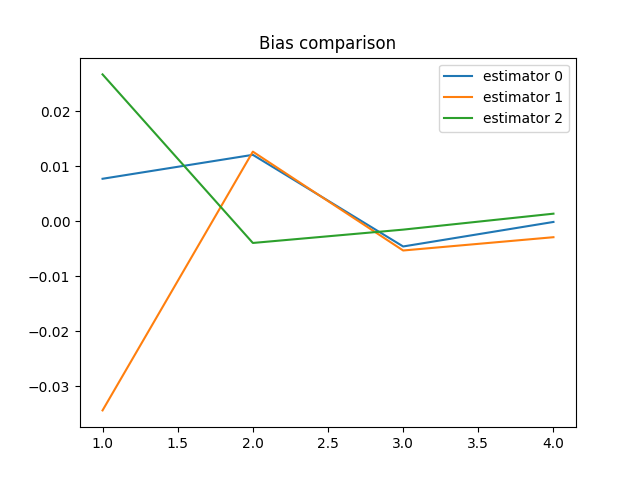
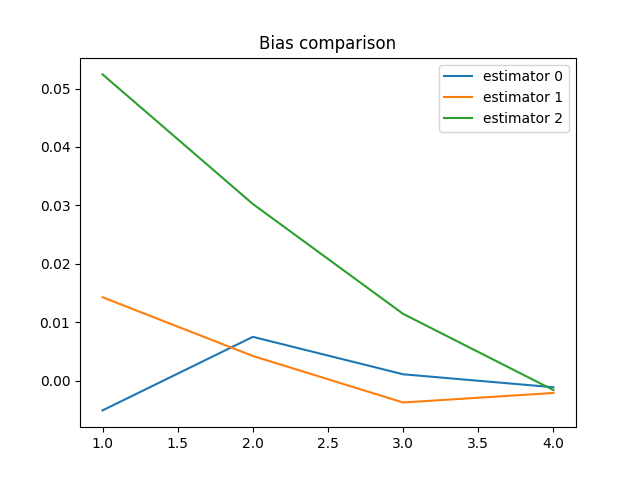
correction to estimator 3

diff --git a/simulation.py b/simulation.py
@@ -43,28 +43,37 @@ def estimators(type, W, A, Y):
         return coefficients[0]
         
     def est_2(): #known g(W)
+
         return 1 / len(Y) * sum(A * Y / g_0(W))
         
     def est_3(): #estimate of g_n(W) (logistic regression)
 
-        ones = np.ones((len(Y), 1))
+        ones = np.ones((len(Y), 1)) #column vector 
         design = np.column_stack((ones, W))
 
         model = LogisticRegression()
-        model.fit(design, A)
+        model.fit(design, A.reshape(-1))
 
-        g_n_predict = model.predict(design)
+        g_n_predict_vec = model.predict_proba(design)
+        g_n_predict = g_n_predict_vec[:, 1]
+
+        #print(f"Coefficients: {model.coef_}")
+
+        #reshape 
+        A_ =  np.array(A).reshape(-1)
+        Y_ = np.array(Y).reshape(-1)
+        g_n_predict_ = np.array(g_n_predict).reshape(-1)
         
-        return 1 / len(Y) * sum(A * Y / g_n_predict)
+        return 1 / len(Y) * sum(A_ * Y_ / g_n_predict_)
     
     if type == 0:
         return est_1()
     elif type == 1:
         return est_2()
     elif type == 2:
-        return est_2()
+        return est_3()
     else:
-        raise TypeError("Argument must be an one, two, or three")
+        raise TypeError("Wrong Argument")
             
         
     
@@ -115,7 +124,7 @@ def simulation_plot():
     plt.legend()
     plt.title("sd comparison")
     plt.savefig('sd.png')
-    plt.show()
+    #plt.show()
 
     plt.figure()
     plt.plot(X, mse[0], label='estimator 0')
@@ -127,14 +136,7 @@ def simulation_plot():
     plt.show()
 
     
-
-    
 simulation_plot()
 
-
-"""
-W,A,Y = generate_data(100000)
-print(estimators(2, W,A,Y))
-"""
-
-    
+#W,A,Y = generate_data(1000000)
+#print(estimators(2, W,A,Y))
